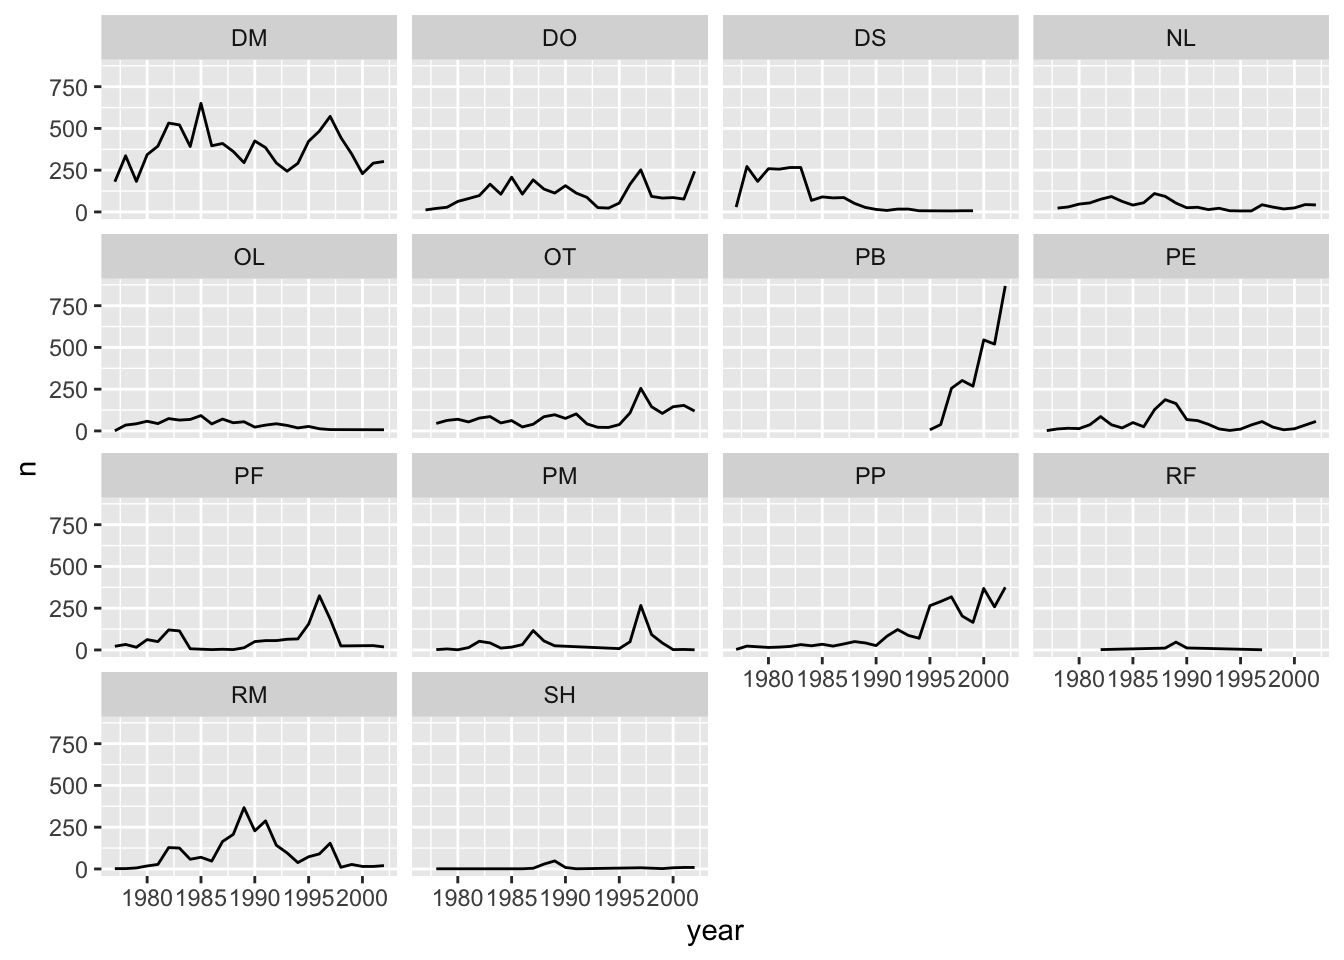
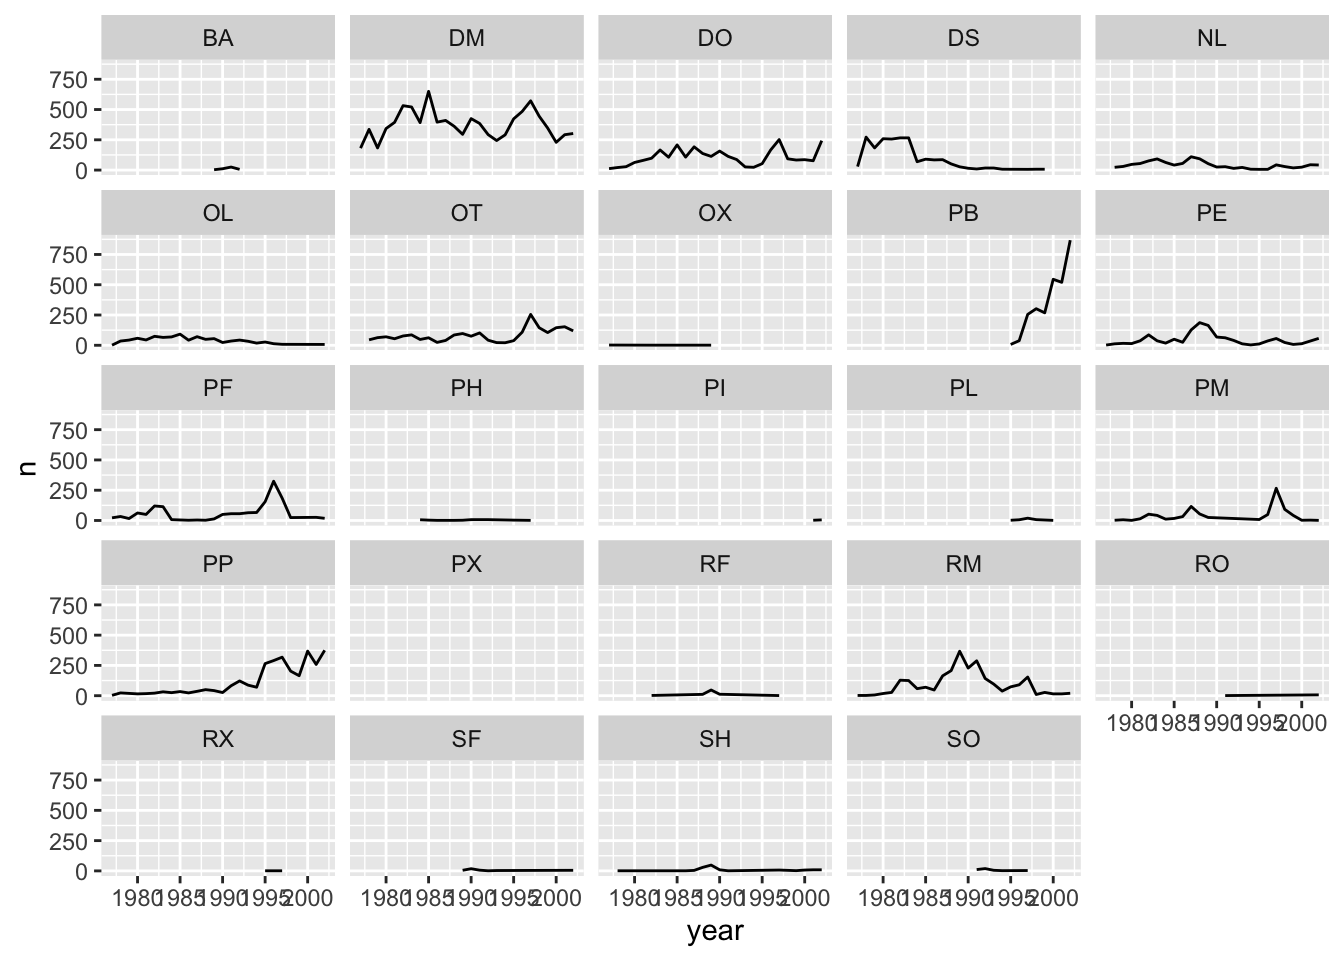
updated ggplot lesson slightly

diff --git a/docs/lesson_ggplot_ecology.html b/docs/lesson_ggplot_ecology.html
@@ -502,8 +502,9 @@ div.tocify {
 <p><br></p>
 <p>We start by loading the required packages. <strong><code>ggplot2</code></strong> is included in the <strong><code>tidyverse</code></strong> package.</p>
 <pre class="r"><code>library(tidyverse)</code></pre>
-<p>If not still in the workspace, load the data we saved in the previous lesson.</p>
-<pre class="r"><code>surveys_complete &lt;- read_csv(&quot;data_output/surveys_complete.csv&quot;)</code></pre>
+<p>Let’s read in our surveys data, but filter it to only get back rows where ALL the data are present, also known as “complete cases”. We’re also showing you a new little trick: using a period with a pipe. Normally, a pipe just sends the stuff on the left into the FIRST argument position in the function on the right. However, sometimes we want that stuff to get sent to a slightly different place in the righthand function. In this case, we want to send it into the <code>complete.cases()</code> function, so that function will run on the whole dataset. In order to specifically tell the pipe to send the lefthand side into this function, we put a period there. You can think of this as the target for the pipe.</p>
+<pre class="r"><code>surveys_complete &lt;- read_csv(&quot;data/portal_data_joined.csv&quot;) %&gt;% 
+  filter(complete.cases(.))</code></pre>
 <div id="plotting-with-ggplot2" class="section level2">
 <h2>Plotting with <strong><code>ggplot2</code></strong></h2>
 <p><strong><code>ggplot2</code></strong> is a plotting package that makes it simple to create complex plots from data in a data frame. It provides a more programmatic interface for specifying what variables to plot, how they are displayed, and general visual properties. Therefore, we only need minimal changes if the underlying data change or if we decide to change from a bar plot to a scatterplot. This helps in creating publication quality plots with minimal amounts of adjustments and tweaking.</p>
@@ -661,6 +662,8 @@ ggplot(mapping = aes(x= species_id, y = hindfoot_length)) +
 <pre class="r"><code>ggplot(data = yearly_counts, mapping = aes(x = year, y = n)) +
     geom_line() +
     facet_wrap(~ species_id)</code></pre>
+<pre><code>## geom_path: Each group consists of only one observation. Do you need to
+## adjust the group aesthetic?</code></pre>
 <p><img src="lesson_ggplot_ecology_files/figure-html/first-facet-1.png" width="672" /></p>
 </div>
 <div id="ggplot2-themes" class="section level2">
@@ -673,6 +676,8 @@ ggplot(mapping = aes(x= species_id, y = hindfoot_length)) +
      facet_wrap(~ species_id) +
      theme_bw() +
      theme(panel.grid = element_blank())</code></pre>
+<pre><code>## geom_path: Each group consists of only one observation. Do you need to
+## adjust the group aesthetic?</code></pre>
 <p><img src="lesson_ggplot_ecology_files/figure-html/facet-by-species-and-sex-white-bg-1.png" width="672" /></p>
 <div class = "blue">
 <div id="challenge-1" class="section level3">
@@ -690,6 +695,8 @@ ggplot(mapping = aes(x= species_id, y = hindfoot_length)) +
      geom_line() +
      facet_wrap(~ species_id) +
      theme_bw()</code></pre>
+<pre><code>## geom_path: Each group consists of only one observation. Do you need to
+## adjust the group aesthetic?</code></pre>
 <p><img src="lesson_ggplot_ecology_files/figure-html/unnamed-chunk-5-1.png" width="672" /></p>
 <div class="blue">
 <h3 id="challenge-2">Challenge 2</h3>
@@ -706,6 +713,8 @@ ggplot(data = yearly_weight, mapping = aes(x=year, y=avg_weight)) +
    geom_line() +
    facet_wrap(~ species_id) +
    theme_bw()</code></pre>
+<pre><code>## geom_path: Each group consists of only one observation. Do you need to
+## adjust the group aesthetic?</code></pre>
 <img src="lesson_ggplot_ecology_files/figure-html/average-weight-time-series-1.png" width="672" />
 </details>
 </div>
